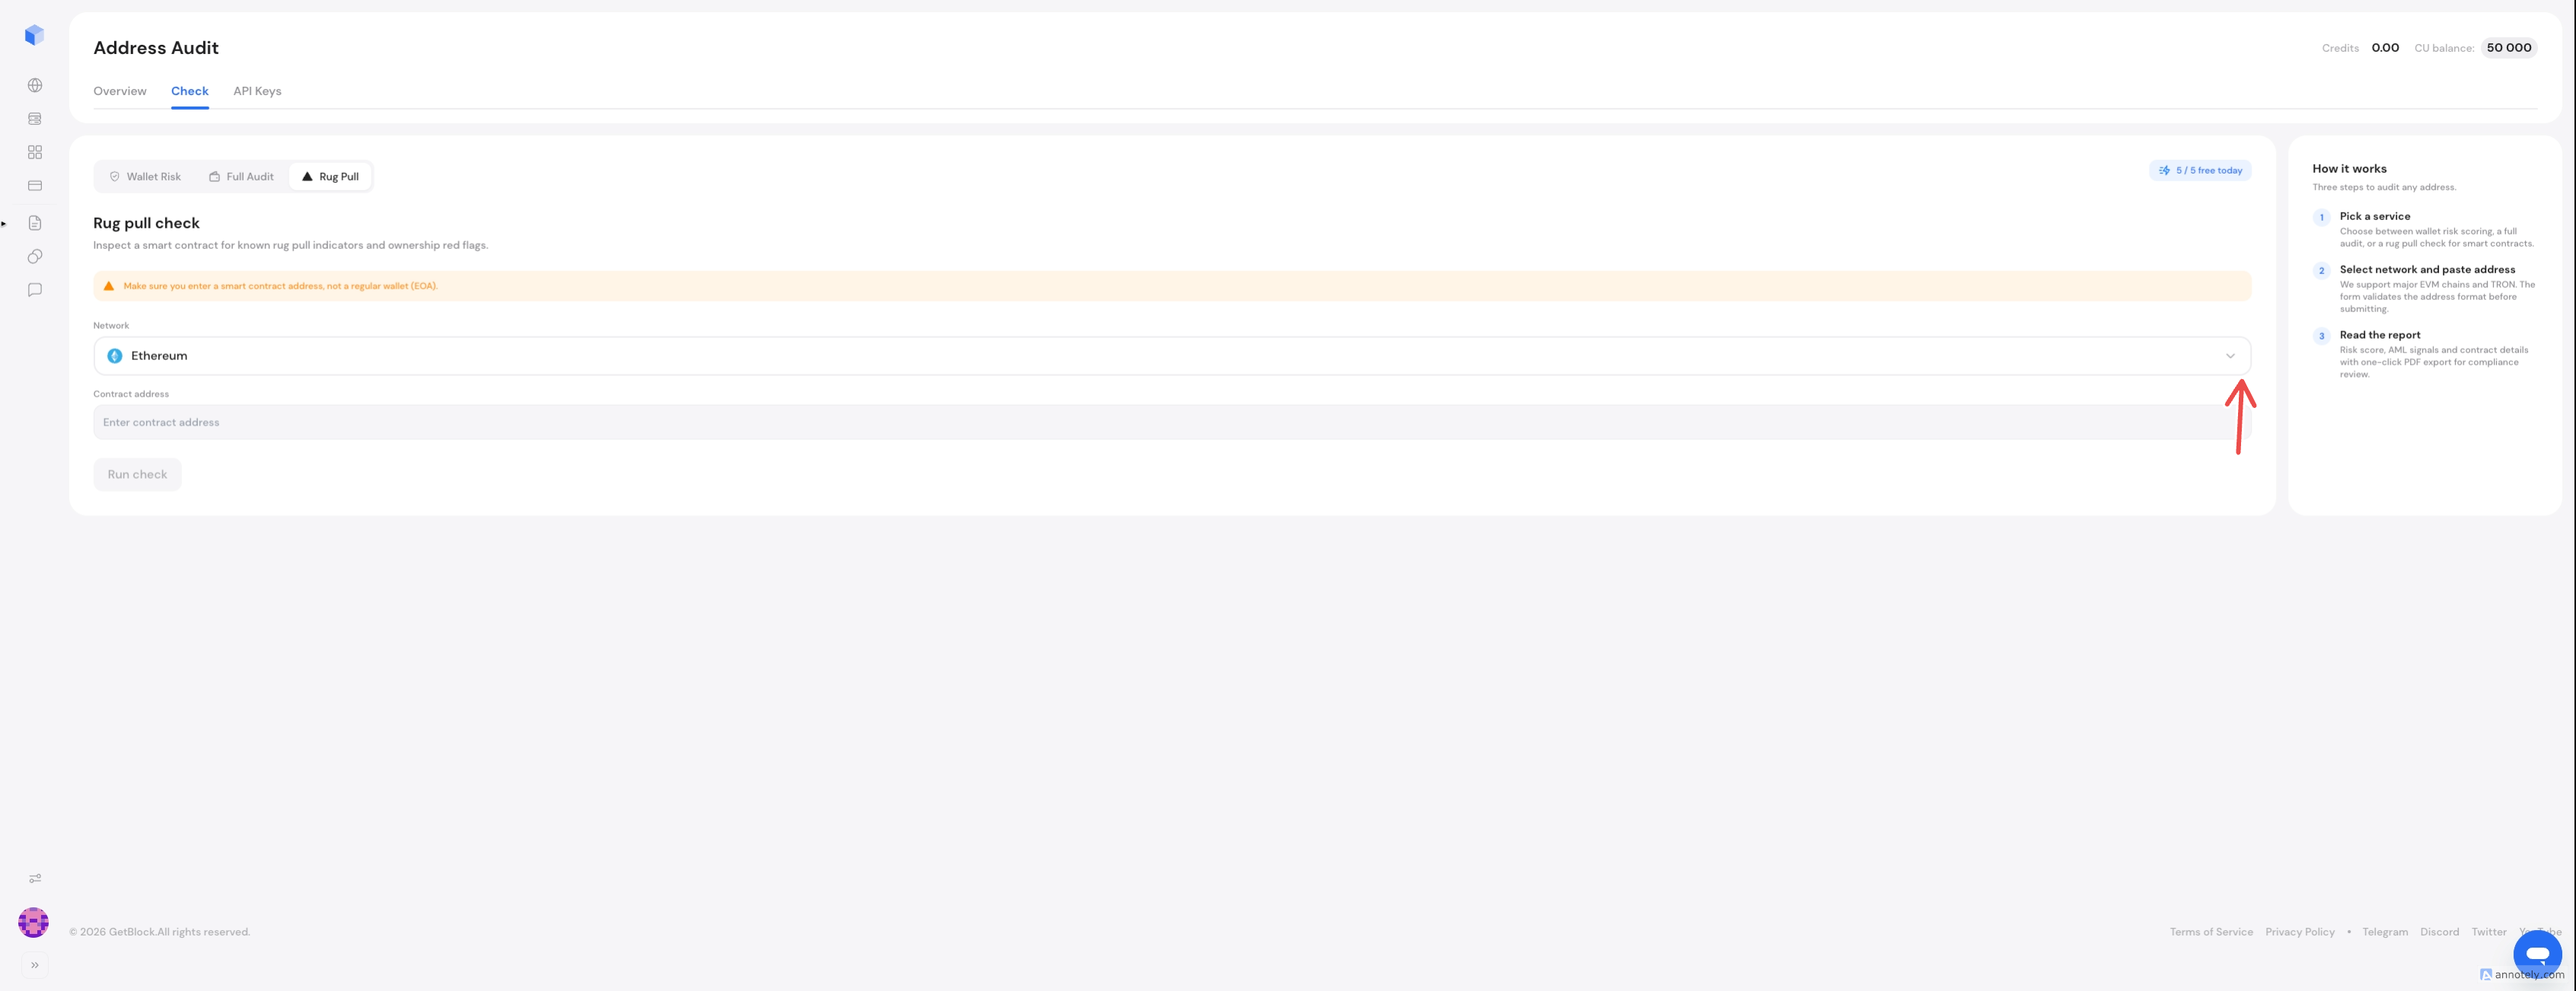
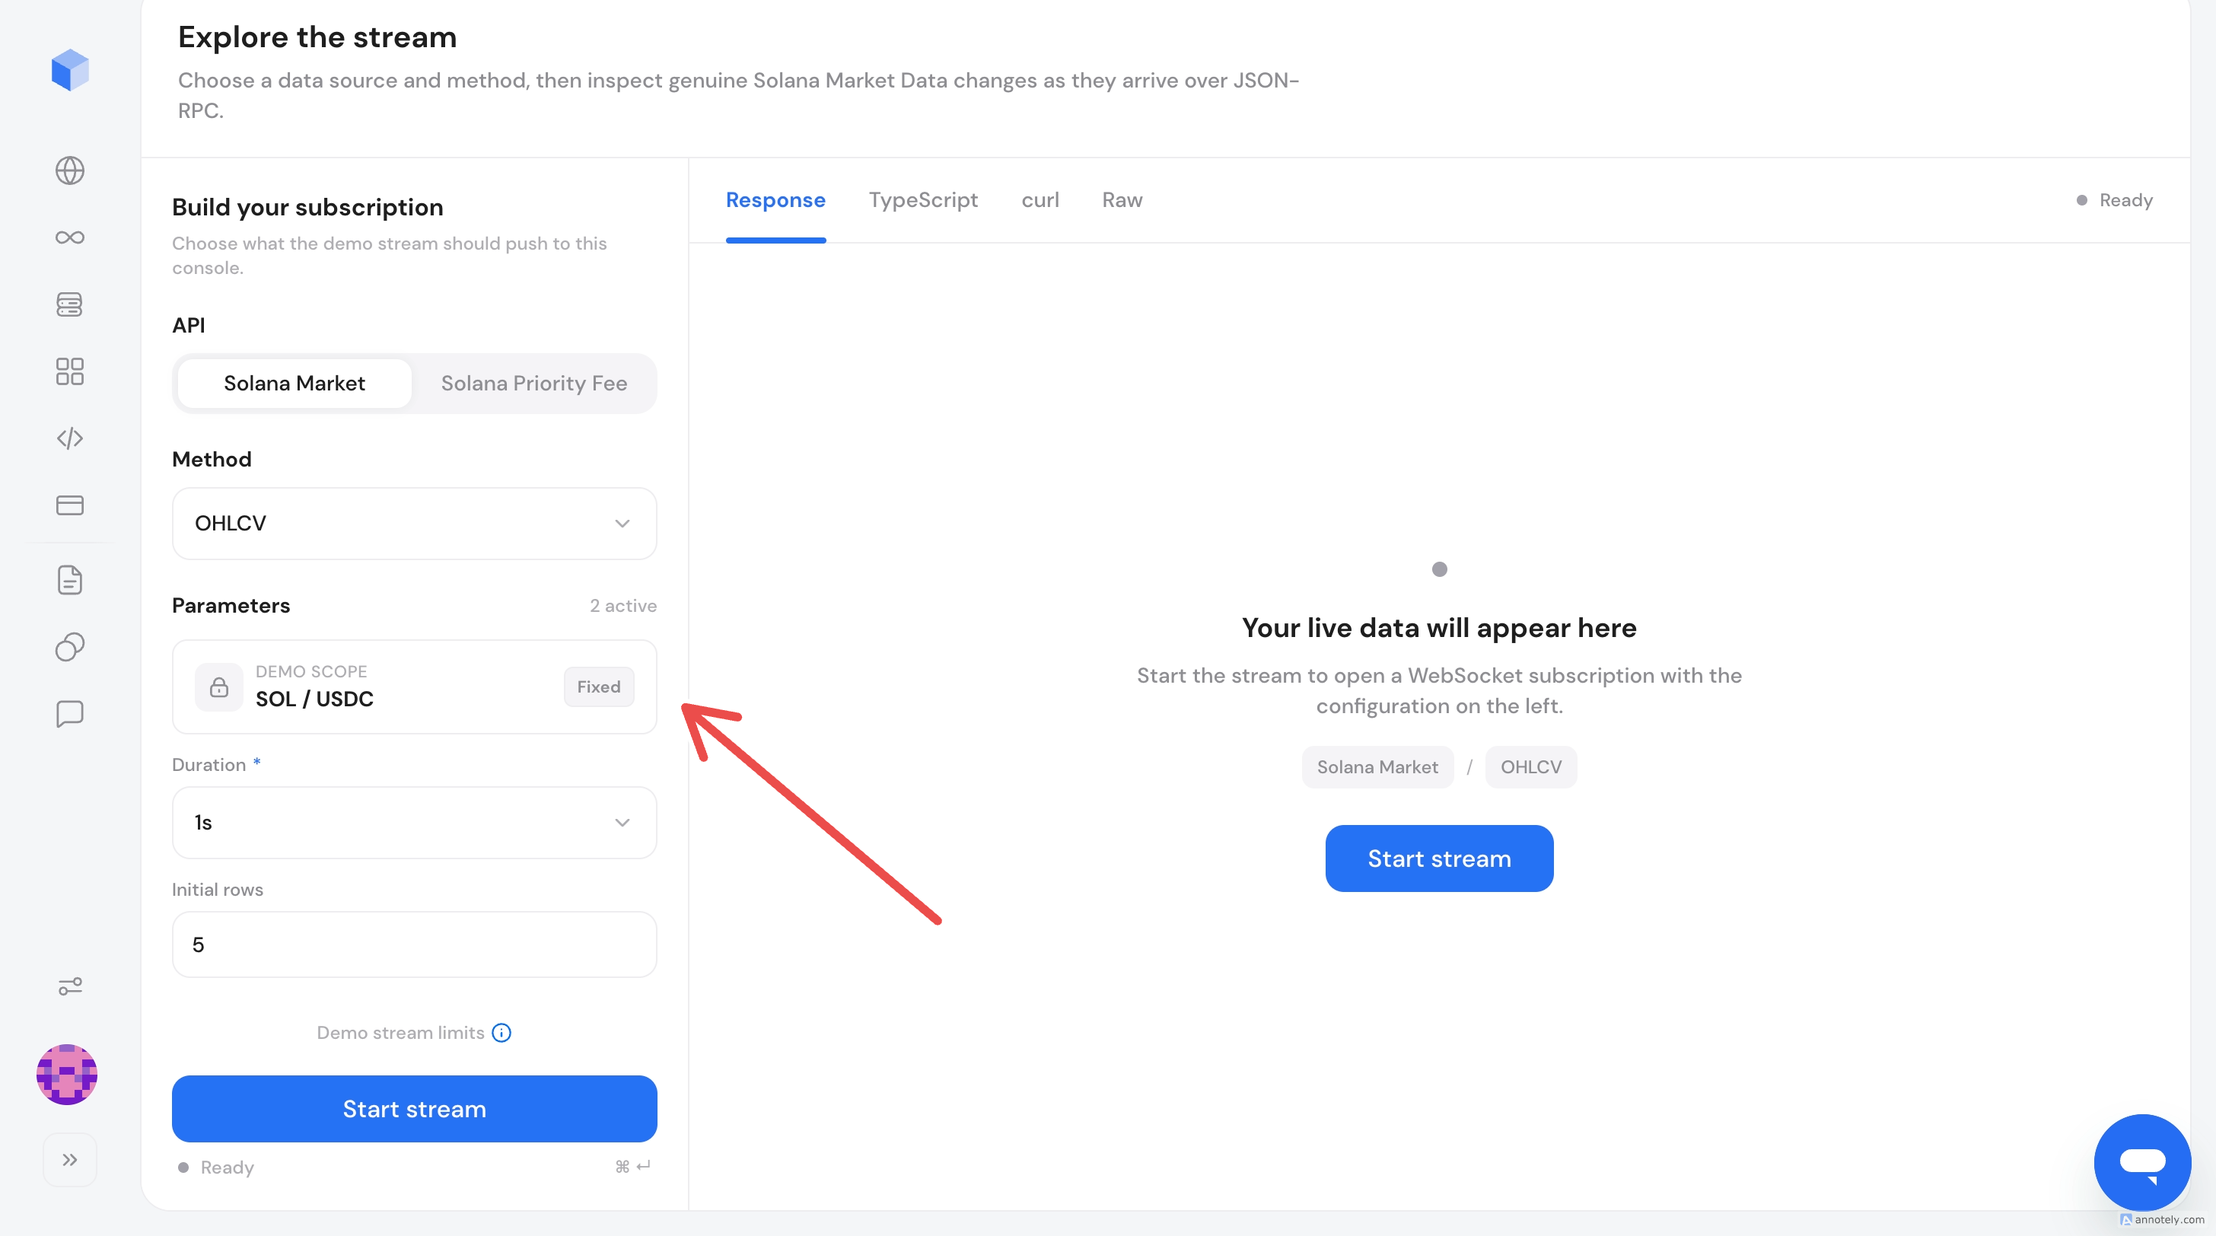
GITBOOK-437: No subject

diff --git a/solana-market-data/market-data.md b/solana-market-data/market-data.md
@@ -4,7 +4,7 @@ description: >-
   how the data is delivered.
 ---
 
-# Market data
+# Market Data
 
 A **Solana Market Data** subscription describes three things:
 
@@ -28,15 +28,7 @@ The `token` topic is the exception: it tracks a single token through a `mint` pa
 
 The `topic` selects the data model you receive — individual trades, OHLCV candles, an aggregated price, and so on.
 
-| Topic                                           | Use it for                                            | Requires |
-| ----------------------------------------------- | ----------------------------------------------------- | -------- |
-| [`trades`](api-reference/trades-market-data.md) | Individual trades and maximum calculation flexibility | —        |
-| [`block`](api-reference/block-market-data.md)   | Market activity for each Solana slot                  | —        |
-| [`ohlcv`](api-reference/ohlcv-market-data.md)   | Candles or price charts                               | `window` |
-| [`twap`](api-reference/twap-market-data.md)     | A price weighted by elapsed time                      | `window` |
-| [`vwap`](api-reference/vwap-market-data.md)     | A price weighted by traded volume                     | `window` |
-| [`volume`](api-reference/volume-market-data.md) | Buy, sell, and total market activity                  | `window` |
-| [`token`](api-reference/token-market-data.md)   | Token metadata                                        | `mint`   |
+<table data-search="false"><thead><tr><th>Topic</th><th>Use it for</th><th>Requires</th></tr></thead><tbody><tr><td><a href="api-reference/trades-market-data.md"><code>trades</code></a></td><td>Individual trades and maximum calculation flexibility</td><td>—</td></tr><tr><td><a href="api-reference/block-market-data.md"><code>block</code></a></td><td>Market activity for each Solana slot</td><td>—</td></tr><tr><td><a href="api-reference/ohlcv-market-data.md"><code>ohlcv</code></a></td><td>Candles or price charts</td><td><code>window</code></td></tr><tr><td><a href="api-reference/twap-market-data.md"><code>twap</code></a></td><td>A price weighted by elapsed time</td><td><code>window</code></td></tr><tr><td><a href="api-reference/vwap-market-data.md"><code>vwap</code></a></td><td>A price weighted by traded volume</td><td><code>window</code></td></tr><tr><td><a href="api-reference/volume-market-data.md"><code>volume</code></a></td><td>Buy, sell, and total market activity</td><td><code>window</code></td></tr><tr><td><a href="api-reference/token-market-data.md"><code>token</code></a></td><td>Token metadata</td><td><code>mint</code></td></tr></tbody></table>
 
 Choosing between them is mostly a question of how much processing you want to do yourself. `trades` gives you raw fills to aggregate however you like; the windowed topics hand you a metric that is already calculated.
 
@@ -55,14 +47,14 @@ Topics such as `ohlcv`, `twap`, `vwap`, and `volume` use `window` to define thei
 After accepting a subscription, the service can first send recent rows requested through `hydrate`, then continue streaming live changes. `throttle` controls the minimum interval between those updates.
 
 {% hint style="warning" %}
-`hydrate` is not only an opening snapshot. It sets the size of the row set the subscription maintains: the service sends that many rows up front and then holds the set at that size, evicting the oldest rows as new ones arrive. Size it to the depth of history you actually want to keep.
+`hydrate` is not only an opening snapshot. It sets the size of the row set the subscription maintains: the service sends that many rows up front and then maintainsholds the set at that size, evicting the oldest rows as new ones arrive. Size it to the depth of history you actually want to keep.
 {% endhint %}
 
 ### Optimistic delivery
 
 Solana produces an ordered sequence of slots, but recently observed data can still change before the network reaches finality. Waiting for finalization before publishing every market event would add latency and could make the feed less useful for trading, monitoring, and automated execution.
 
-Market Data therefore uses an optimistic streaming model. Rows are delivered as soon as they are available and can be corrected later through the same subscription. This gives latency-sensitive clients immediate access to new market activity while preserving a deterministic way to reconcile their local state.
+Market Data therefore uses an optimistic streaming model. Rows are delivered as soon as they are available and can be corrected later through the same subscription. This gives latency-sensitive clients immediate access to new market activity while preserving a deterministic means of reconciling their local state.
 
 In practice this means a subscription with `"window": "10s"` can receive a row before the ten-second window closes. As more trades enter that window, the service sends the latest version of the row — under the same `id` — rather than a new one.
 

diff --git a/solana-market-data/getting-started.md b/solana-market-data/getting-started.md
@@ -42,7 +42,9 @@ To choose the market you want to track, provide the mint addresses for:
 
 For example, to receive market data for **SOL/USDC**, select the corresponding **SOL** and **USDC** mint addresses as your base and quote assets.
 
-The selected pair is then applied across the available methods, including **Trades, Blocks, VWAP, TWAP, Volume, and Candles**.
+<figure><img src="../.gitbook/assets/image (4).png" alt="Solana market data parameter on playground"><figcaption></figcaption></figure>
+
+The selected pair is then applied across the available methods, including **Trades, Blocks,** [**VWAP**](#user-content-fn-1)[^1]**,** [**TWAP**](#user-content-fn-2)[^2]**, Volume, and** [**OHLCV**](#user-content-fn-3)[^3].
 
 {% hint style="info" %}
 You can select the Base Mint and Quote Mint directly in the [**Playground**](https://account.getblock.io/products/solana-data-stream#playground) to explore the data for a specific pair before integrating it into your application.
@@ -54,7 +56,7 @@ You can select the Base Mint and Quote Mint directly in the [**Playground**](htt
 
 Choose the method that best matches your use case:
 
-<table data-search="false"><thead><tr><th>Method</th><th>Best for</th></tr></thead><tbody><tr><td><strong>Trades</strong></td><td>Individual normalized trades</td></tr><tr><td><strong>Blocks</strong></td><td>Market activity aggregated by Solana slot</td></tr><tr><td><strong>VWAP</strong></td><td>Volume-weighted market price</td></tr><tr><td><strong>TWAP</strong></td><td>Time-weighted market price</td></tr><tr><td><strong>Volume</strong></td><td>Trading activity and traded volume</td></tr><tr><td><strong>Candles</strong></td><td>OHLCV charts and price visualization</td></tr><tr><td><strong>Buy/Sell Activity</strong></td><td>Comparing buying and selling activity</td></tr></tbody></table>
+<table data-search="false"><thead><tr><th>Method</th><th>Best for</th></tr></thead><tbody><tr><td><strong>Trades</strong></td><td>Individual normalized trades</td></tr><tr><td><strong>Blocks</strong></td><td>Market activity aggregated by Solana slot</td></tr><tr><td><strong>VWAP</strong></td><td>Volume-weighted market price</td></tr><tr><td><strong>TWAP</strong></td><td>Time-weighted market price</td></tr><tr><td><strong>Volume</strong></td><td>Trading activity and traded volume</td></tr><tr><td><strong>OHLCV</strong></td><td>OHLCV charts and price visualization(candles)</td></tr><tr><td><strong>Token</strong></td><td>Comparing buying and selling activity</td></tr></tbody></table>
 
 ### 4. Select how you want to consume the data
 
@@ -116,6 +118,8 @@ Use it to:
 4. send a query or start a stream;
 5. inspect the returned data.
 
+<figure><img src="../.gitbook/assets/Screenshot 2026-09-10 at 3.20.16 PM.png" alt="Solana market data playground"><figcaption></figcaption></figure>
+
 The Playground uses the same concepts exposed through the API, making it useful for understanding a method before integrating it into your application.
 
 ### 6. Integrate it into your application
@@ -132,4 +136,10 @@ graph TD
   D --> E[Use the data in your application]
 ```
 
-For exact request parameters, response fields, and streaming behavior, continue to the documentation for the specific **Market Data method** or see the **API Reference**.
+For exact request parameters, response fields, and streaming behavior, continue to the documentation for the specific [**Market Data method** ](market-data.md)or see the [**API Reference**](api-reference/).
+
+[^1]: VWAP stands for **Volume-Weighted Average Price**, a technical analysis indicator that shows the average price a security has traded at throughout the day, weighted by its trading volume
+
+[^2]: TWAP stands for Time-Weighted Average Price, an algorithmic strategy that breaks a large trade into smaller pieces executed at regular time intervals.
+
+[^3]: **OHLCV** stands for **Open, High, Low, Close, and Volume**, which are the five core data points used to summarize price movement and trading activity for any financial asset over a specific time frame

diff --git a/guides/how-to-build-a-live-solana-candlestick-chart-with-getblock-market-data.md b/guides/how-to-build-a-live-solana-candlestick-chart-with-getblock-market-data.md
@@ -11,6 +11,10 @@ Every price chart starts the same way: you need candles, and Solana does not han
 
 [**GetBlock Solana Market Data**](https://app.gitbook.com/s/FOeg95CadVyFvyLi70Bh/solana-market-data) does that aggregation for you and streams the finished candles over WebSocket, complete with a backfill so your chart is populated the moment it opens.
 
+{% hint style="info" %}
+The GetBlock Solana Market service is a billable service.&#x20;
+{% endhint %}
+
 In this guide, you'll build a **live SOL/USDC candlestick chart** that backfills the last hour on startup and then updates in real time as trades land.
 
 ### What you'll build

diff --git a/SUMMARY.md b/SUMMARY.md
@@ -111,7 +111,7 @@
 
 * [Overview](solana-market-data/overview.md)
 * [Getting Started](solana-market-data/getting-started.md)
-* [Market data](solana-market-data/market-data.md)
+* [Market Data](solana-market-data/market-data.md)
 * [Priority fee](solana-market-data/priority-fee.md)
 * [API Reference](solana-market-data/api-reference/README.md)
   * [getblock\_subscribe - Solana Market Data](solana-market-data/api-reference/getblock_subscribe-market-data.md)
